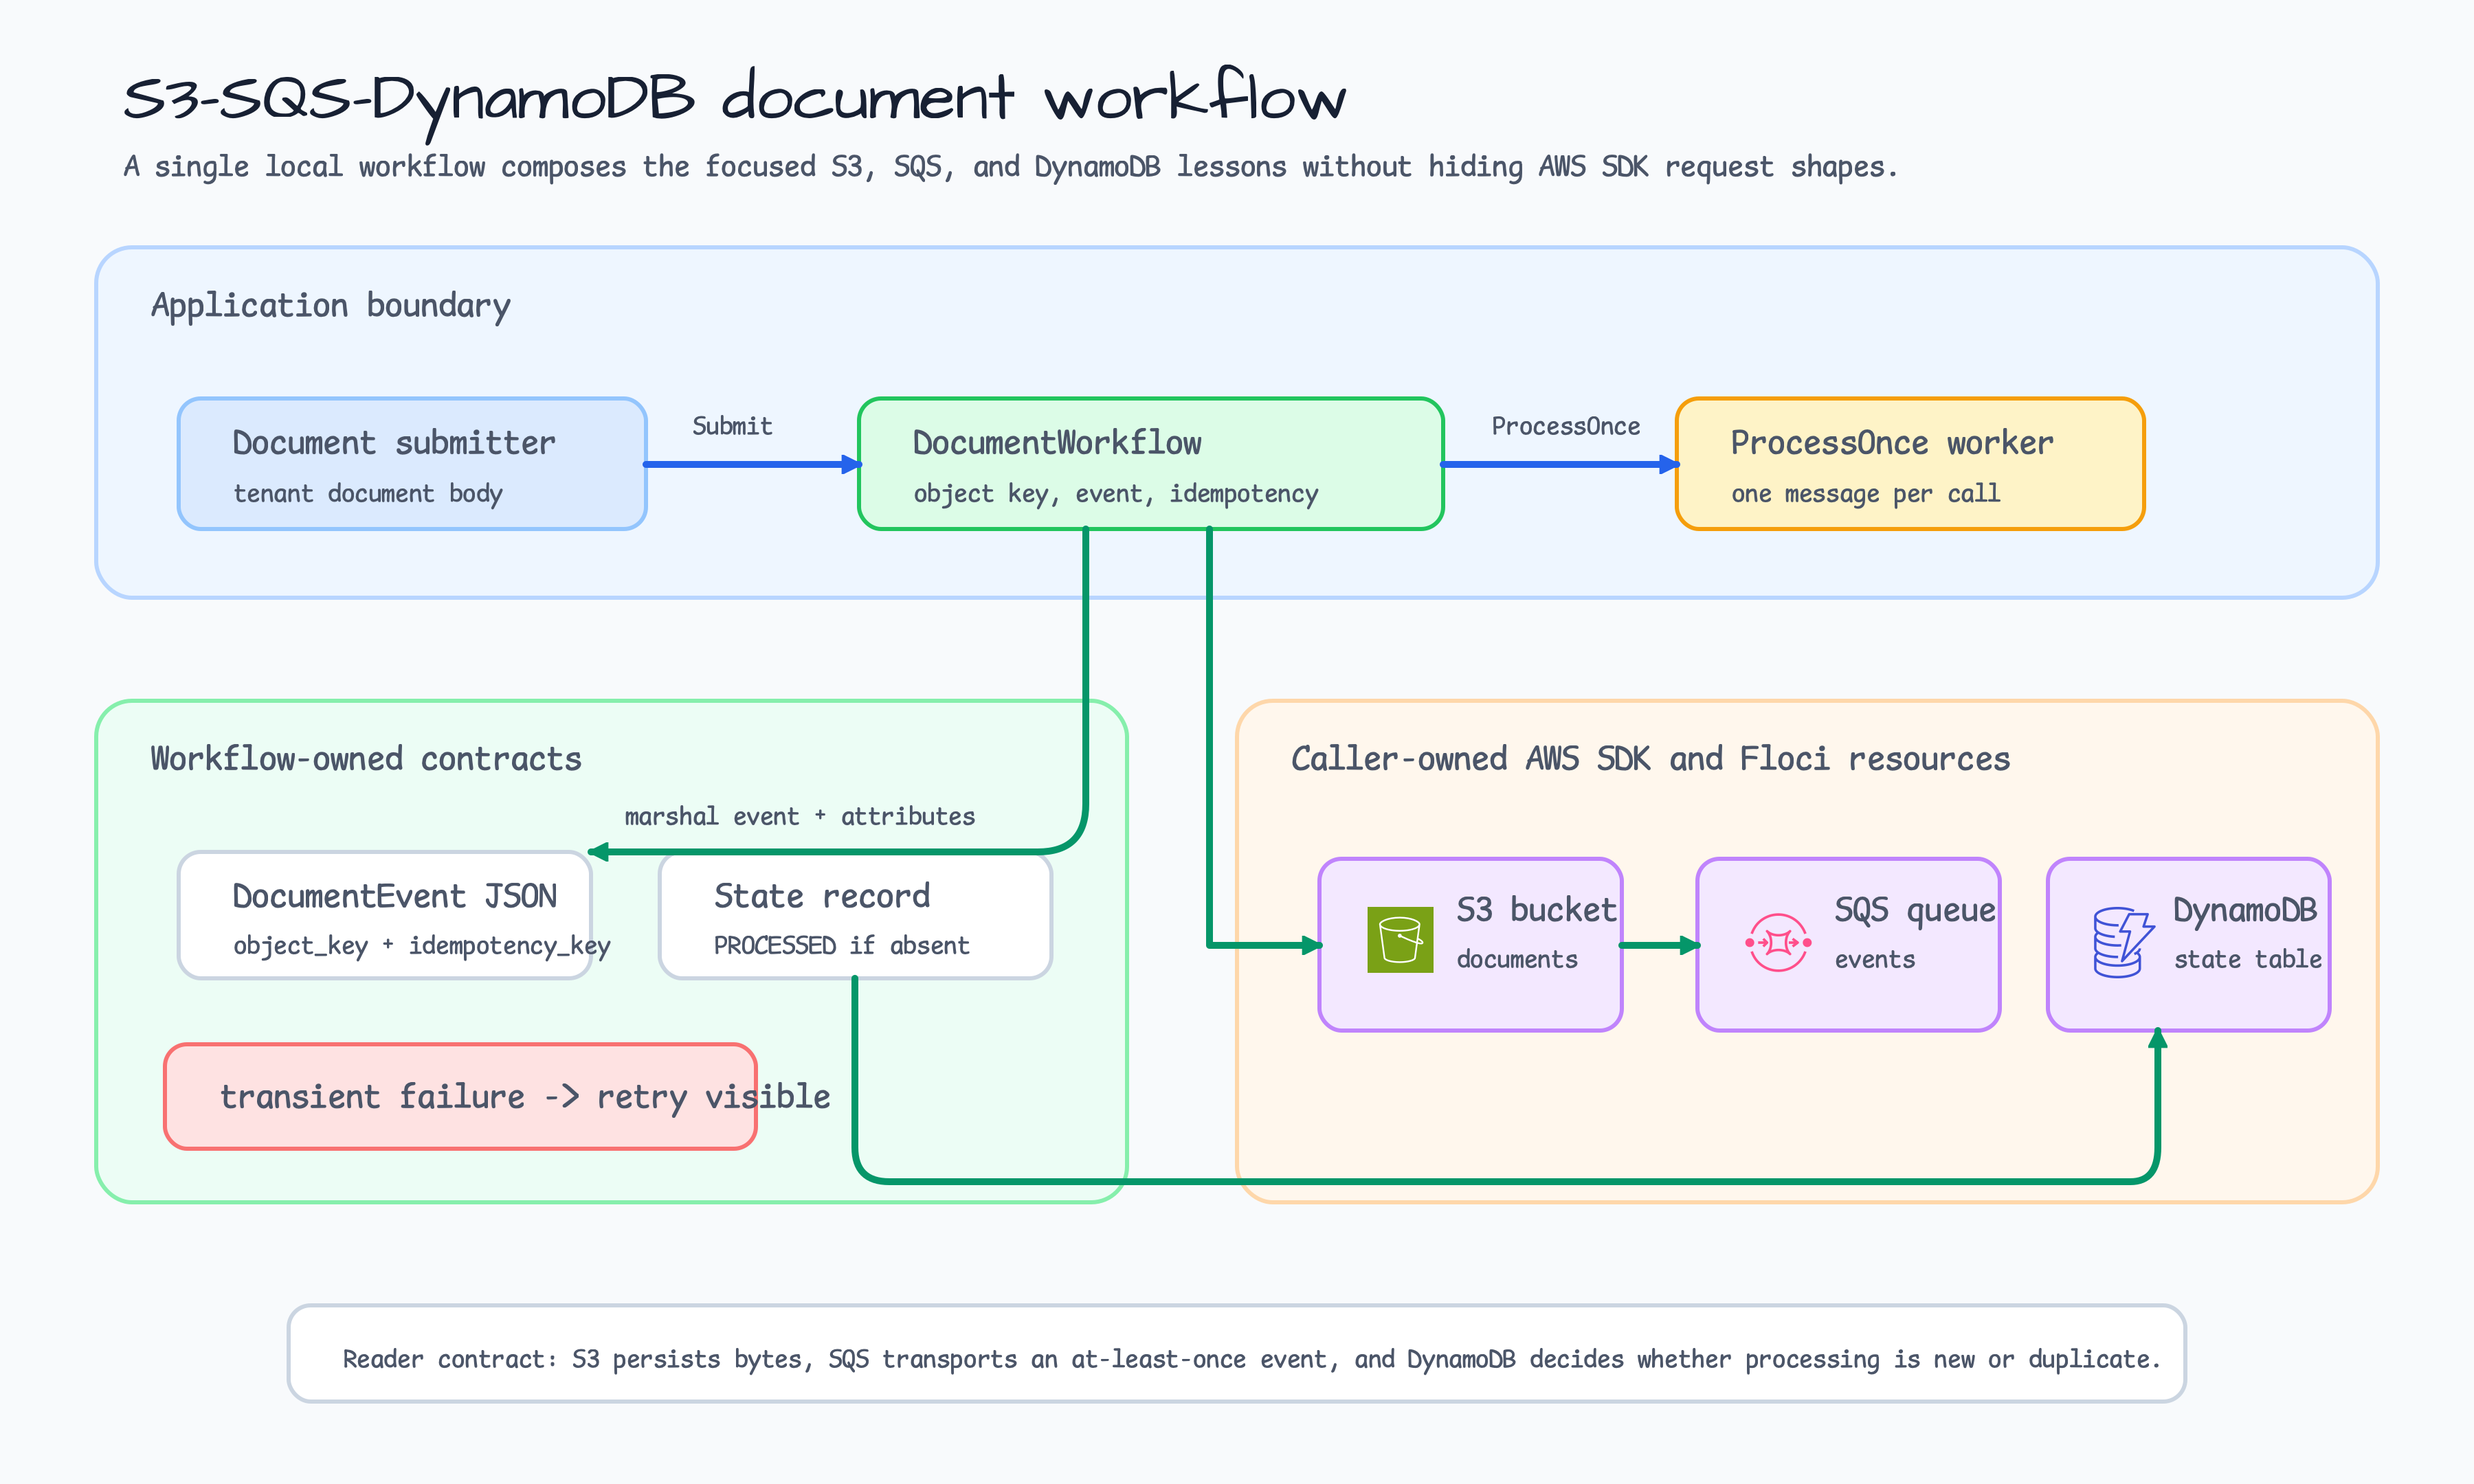
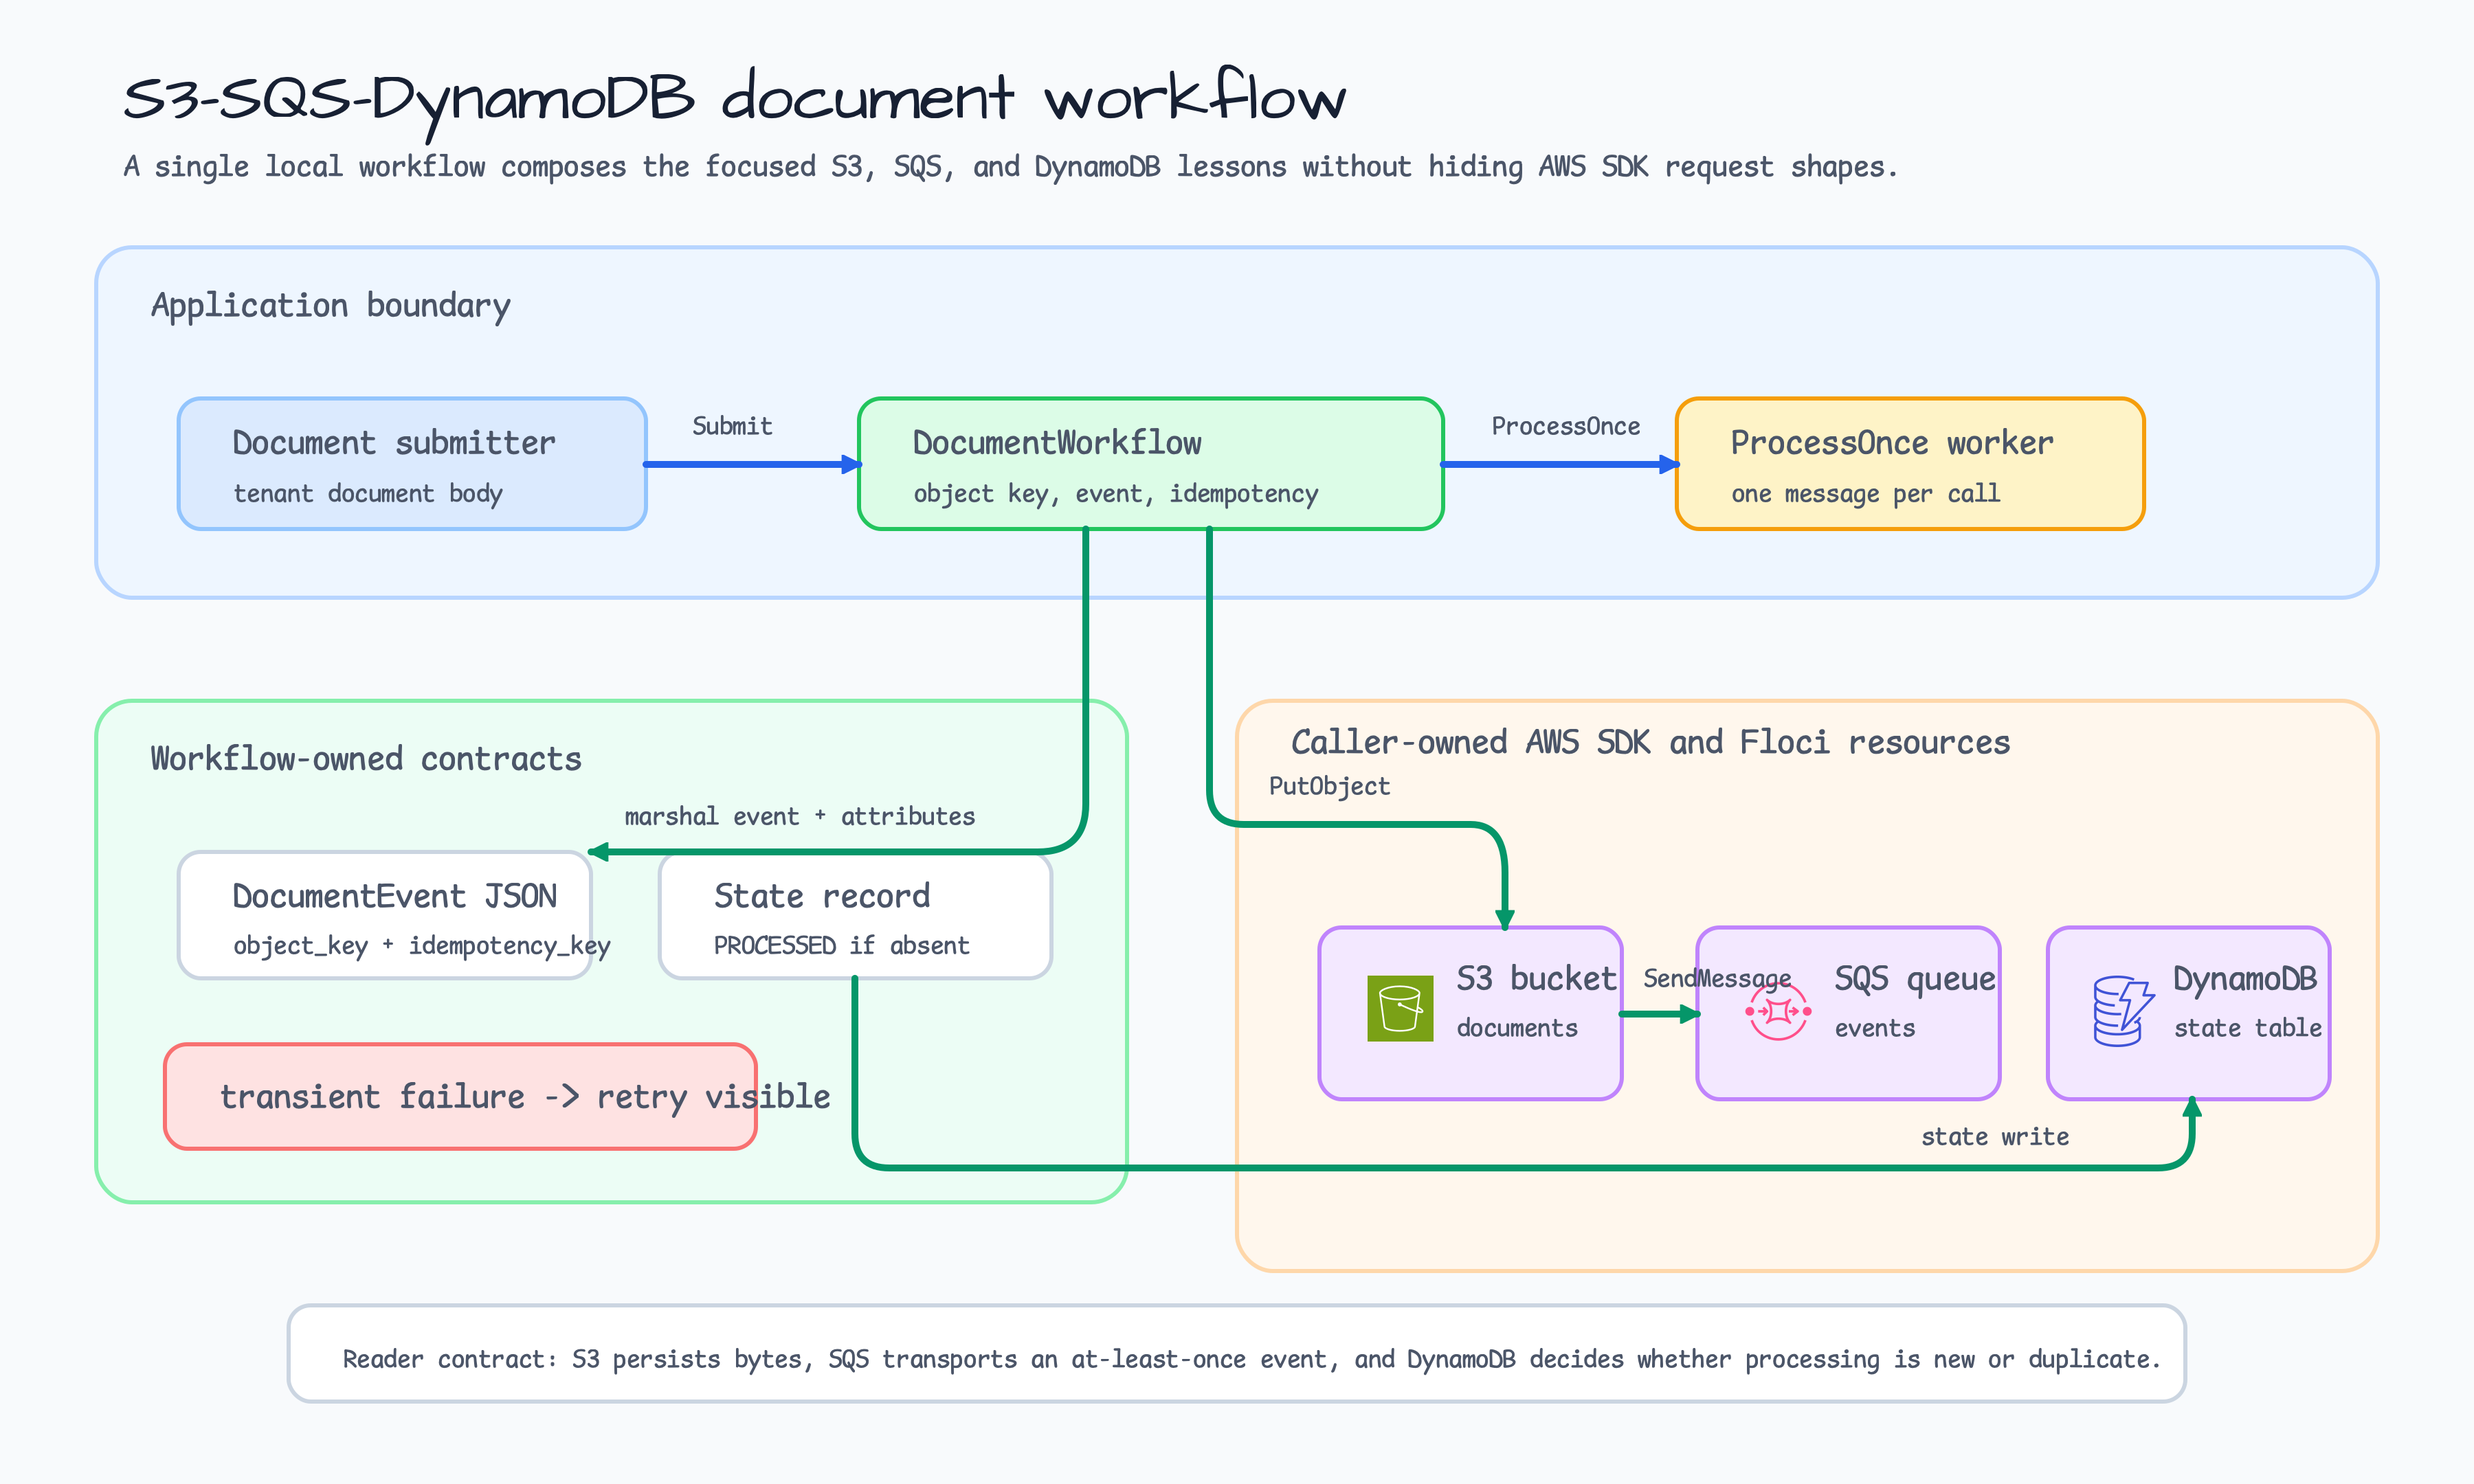
Align document workflow diagrams with checklist
Redraw the sequence asset against the local best-practices sequence family and reroute architecture connectors through distinct orthogonal corridors so README visuals survive rendered-PNG review.

Constraint: bluetape4k-diagram checklist requires CairoSVG-rendered PNG inspection, marker parity, perpendicular connector ports, and best-practices sequence style parity.

Rejected: keep the prior lifeline-only sequence layout | it passed basic SVG checks but did not match the leader-redis-lettuce sequence family.

Confidence: high

Scope-risk: narrow

Directive: Treat sequence style parity as rendered-PNG evidence; do not accept sequence-named assets that only contain generic lifelines and arrows.

Tested: xmllint --noout target SVGs; CairoSVG render for both PNGs; marker audit; connector geometry audit; endpoint/perpendicular audit; duplicate icon audit; contact sheet inspection; git diff --check; go test -count=1 ./examples/s3-sqs-dynamodb-document-workflow/...

Changed region(s): [[0.3422, 0.5583, 0.9333, 0.8685], [0.4978, 0.4963, 0.8089, 0.5583], [0.9333, 0.8065, 0.9644, 0.8375]]

diff --git a/docs/lessons/2026-06-29-s3-sqs-dynamodb-document-workflow.md b/docs/lessons/2026-06-29-s3-sqs-dynamodb-document-workflow.md
@@ -25,3 +25,10 @@ compatibility without requiring real AWS credentials or account state.
 Diagram QA lesson: inspect full-size PNGs after CairoSVG render, not only SVG.
 The first architecture pass had a connector crossing the retry-visible note and
 AWS card labels with tight margins; both were visible only in the rendered PNG.
+
+Follow-up diagram QA lesson: a sequence-named asset must visually match the
+local best-practices sequence family, not merely contain lifelines and arrows.
+Use participant headers, activation bars, pill labels, dashed `alt`/`else`
+regions, and enough row height before accepting the PNG. For architecture
+connectors, keep each operation in its own corridor; do not let a state-write
+line share a tight corridor with an object-store line or hug a layer border.
